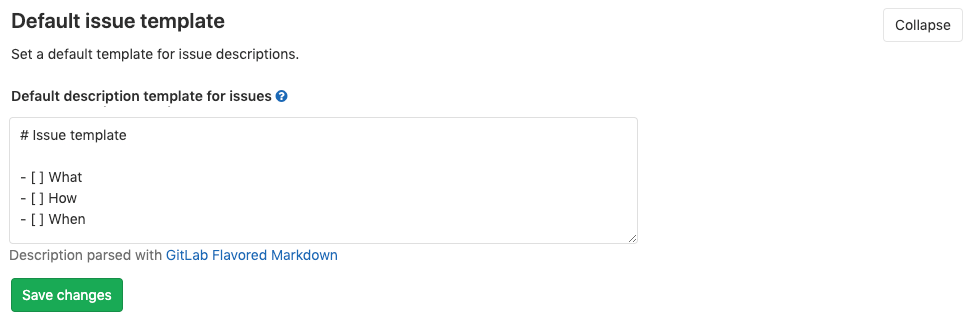
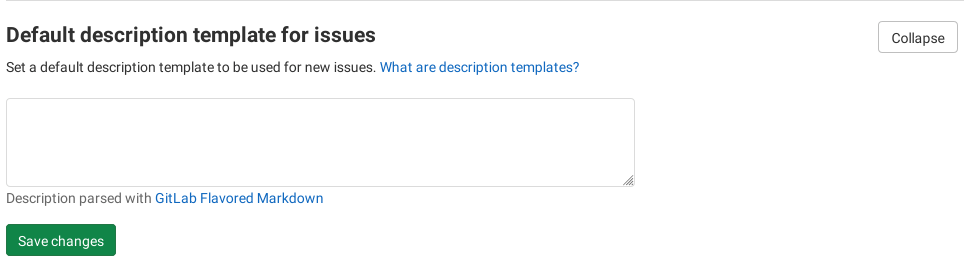
Update issue description templates UI settings

diff --git a/ee/spec/features/projects/settings/issues_settings_spec.rb b/ee/spec/features/projects/settings/issues_settings_spec.rb
@@ -19,14 +19,14 @@ RSpec.describe 'Project settings > Issues', :js do
       end
 
       it 'shows the Issues settings' do
-        expect(page).to have_content('Set a default template for issue descriptions.')
+        expect(page).to have_content('Set a default description template to be used for new issues.')
 
         within('.sharing-permissions-form') do
           find('.project-feature-controls[data-for="project[project_feature_attributes][issues_access_level]"] .project-feature-toggle').click
           click_on('Save changes')
         end
 
-        expect(page).not_to have_content('Set a default template for issue descriptions.')
+        expect(page).not_to have_content('Set a default description template to be used for new issues.')
       end
     end
   end
@@ -38,14 +38,14 @@ RSpec.describe 'Project settings > Issues', :js do
     end
 
     it 'does not show the Issues settings' do
-      expect(page).not_to have_content('Set a default template for issue descriptions.')
+      expect(page).not_to have_content('Set a default description template to be used for new issues.')
 
       within('.sharing-permissions-form') do
         find('.project-feature-controls[data-for="project[project_feature_attributes][issues_access_level]"] .project-feature-toggle').click
         click_on('Save changes')
       end
 
-      expect(page).to have_content('Set a default template for issue descriptions.')
+      expect(page).to have_content('Set a default description template to be used for new issues.')
     end
   end
 
